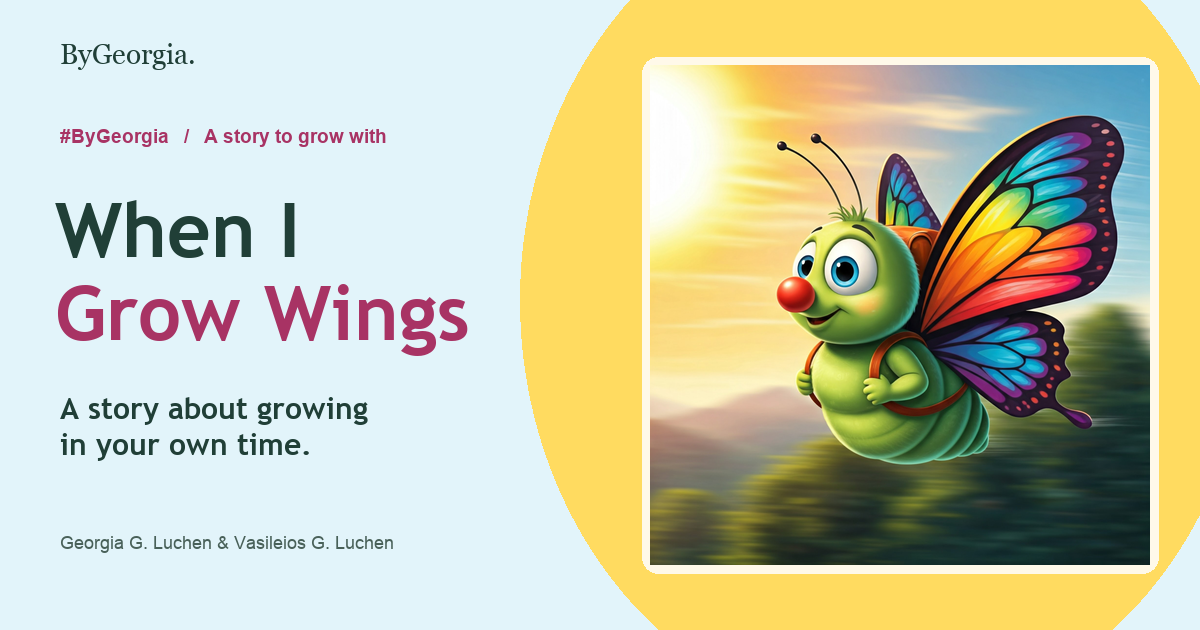
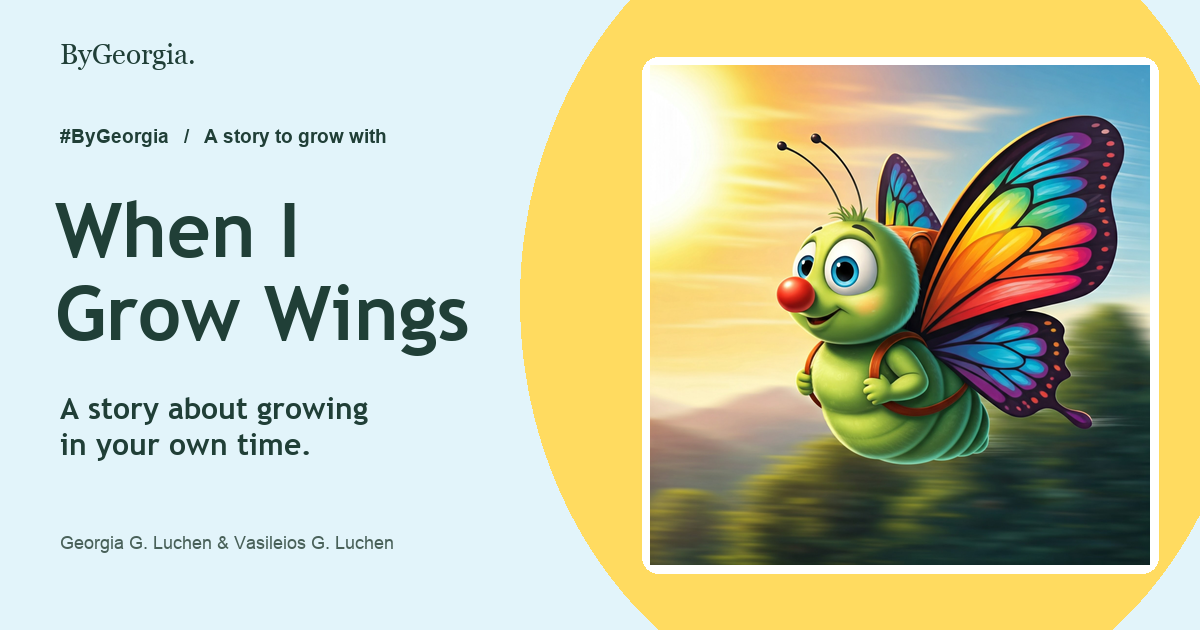
Keep the palette bright with sky blue and a unified green title

Changed region(s): [[0.0308, 0.4524, 0.4008, 0.573], [0.0308, 0.181, 0.3392, 0.2413]]

diff --git a/public/editorial.css b/public/editorial.css
@@ -1,12 +1,12 @@
 /* ByGeorgia: a bright, creative home. Family Play keeps its own existing styles. */
 :root {
-  --paper: #fff9e9;
+  --paper: #e2f4fa;
   --ink: #203f37;
   --muted: #496159;
   --blue: #dff3fa;
   --green: #dbeaaf;
   --sun: #ffd44d;
-  --pink: #ac3966;
+  --accent: #246c8a;
   --line: #ccd7bb;
   --heading: 'Avenir Next', 'Trebuchet MS', ui-rounded, system-ui, sans-serif;
 }
@@ -14,26 +14,26 @@
 html { scroll-behavior: smooth; scroll-padding-top: 24px; }
 body { margin: 0; background: var(--paper); color: var(--ink); font: 16px/1.75 'Avenir Next', system-ui, sans-serif; }
 a { color: inherit; text-decoration: none; }
-a:focus-visible { outline: 3px solid #ac3966; outline-offset: 5px; }
+a:focus-visible { outline: 3px solid var(--accent); outline-offset: 5px; }
 img { display: block; max-width: 100%; height: auto; }
 p,h1,h2,h3,figure { margin: 0; }
 p+p { margin-top: 20px; }
 h1,h2,h3 { font-family: var(--heading); font-weight: 800; line-height: 1.1; letter-spacing: -.045em; }
 h2 { font-size: clamp(34px,4vw,52px); }
-em { font-style: normal; color: var(--pink); }
+em { font-style: normal; color: inherit; }
 cite { font-style: italic; }
 .wrap { width: min(1180px,calc(100% - 96px)); margin-inline: auto; }
 .kicker { font-size: .76rem; font-weight: 800; letter-spacing: .1em; text-transform: uppercase; margin-bottom: 22px; }
 .editorial-nav { display: flex; align-items: center; justify-content: space-between; gap: 20px; padding-block: 24px; }
 .wordmark { font-family: Georgia,serif; font-size: 29px; font-weight: 400; letter-spacing: -1px; }
-.brand-dot { color: #ad3f29; }
+.brand-dot { color: var(--accent); }
 .editorial-nav nav { display: flex; align-items: center; flex-wrap: wrap; gap: 24px; font-size: .8rem; font-weight: 650; }
 .editorial-nav nav a { padding-block: 8px; }
-.movement { color: var(--pink); }
-.book-page { background: linear-gradient(180deg,#e2f4fa 0,#f2f9e8 660px,var(--paper) 1000px); }
+.movement { color: var(--accent); }
+.book-page { background: var(--paper); }
 .book-hero { display: grid; grid-template-columns: 1fr 1fr; align-items: center; gap: 64px; padding-block: 66px 92px; }
 .book-intro h1 { font-size: clamp(58px,6.6vw,91px); line-height: 1.01; letter-spacing: -.065em; }
-.book-intro h1 em { display: inline-block; position: relative; color: #a83364; }
+.book-intro h1 em { display: inline-block; position: relative; color: inherit; }
 .book-intro h1 em::after { content: ''; display: block; height: 8px; background: var(--sun); border-radius: 70%; transform: rotate(-4deg); margin-top: 5px; }
 .byline { font-size: .87rem; font-weight: 650; margin-top: 25px; }
 .positioning { font: 750 26px/1.35 var(--heading); margin-top: 27px; letter-spacing: -.02em; }
@@ -49,7 +49,7 @@ cite { font-style: italic; }
 .regional-purchases a { display: inline-block; padding-block: 8px; text-decoration: underline; text-underline-offset: 4px; }
 .regional-purchases span[aria-hidden] { margin-inline: 10px; }
 .artwork-presentation { position: relative; isolation: isolate; padding-top: 20px; }
-.artwork-presentation img { width: 100%; border: 7px solid #fffaf0; border-radius: 22px; box-shadow: 0 20px 45px -22px #284d4480; transform: rotate(2deg); }
+.artwork-presentation img { width: 100%; border: 7px solid #fff; border-radius: 22px; box-shadow: 0 20px 45px -22px #284d4480; transform: rotate(2deg); }
 .artwork-halo { position: absolute; inset: -18px 10px 35px; z-index: -1; background: #ffe08a; border-radius: 48% 52% 36% 64% / 40% 35% 65% 60%; transform: rotate(-7deg); }
 .artwork-presentation figcaption { margin-top: 29px; text-align: center; font-size: .85rem; font-weight: 650; color: var(--muted); }
 .story-section { display: grid; grid-template-columns: 1fr 2fr; gap: 65px; padding-block: 68px 95px; }
@@ -59,7 +59,7 @@ cite { font-style: italic; }
 .together-section { background: var(--green); border-radius: 70px 70px 0 0; padding-block: 78px; }
 .together-grid { display: grid; grid-template-columns: 1fr 1.2fr; gap: 80px; align-items: center; }
 .together-grid h2 { font-size: clamp(42px,5vw,64px); }
-.together-grid h2 em { color: #395e27; }
+.together-grid h2 em { color: inherit; }
 .together-copy { max-width: 550px; }
 .together-copy>p { font-size: 1.06rem; }
 .together-copy .dedication { font: 650 23px/1.55 var(--heading); margin-top: 30px; padding-top: 27px; border-top: 1px solid #9dae79; }
@@ -86,7 +86,7 @@ dd { margin: 0; }
 .authors-grid p { color: var(--muted); font-size: .96rem; }
 .closing { background: #ffdb60; text-align: center; padding-block: 78px 85px; border-radius: 50% 50% 0 0 / 35px 35px 0 0; }
 .closing h2 { font-size: clamp(40px,5vw,66px); }
-.closing em { color: #8e335c; }
+.closing em { color: inherit; }
 .closing>div>p:not(.kicker) { max-width: 500px; margin: 24px auto 0; }
 .closing .purchase-links { justify-content: center; }
 .editorial-footer { display: flex; justify-content: space-between; align-items: center; gap: 24px; padding-block: 30px; font-size: .77rem; }
@@ -96,7 +96,7 @@ dd { margin: 0; }
 .skip-link:focus { top: 12px; }
 /* The hub has the same creative voice, with room for more projects. */
 .hub-main { padding-block: 65px 90px; }
-.hub-main>.kicker { color: var(--pink); text-transform: none; letter-spacing: 0; font-size: 1rem; }
+.hub-main>.kicker { color: var(--accent); text-transform: none; letter-spacing: 0; font-size: 1rem; }
 .hub-main h1 { font-size: clamp(44px,6vw,76px); max-width: 900px; }
 .hub-main h1 em { background: linear-gradient(transparent 78%,#ffd44d 78%); }
 .hub-lead { color: var(--muted); margin-top: 25px; font-size: 1.08rem; }

diff --git a/scripts/prepare-book-images.py b/scripts/prepare-book-images.py
@@ -16,13 +16,13 @@ def font(name, size):
     return ImageFont.truetype(str(font_dir / name), size)
 draw.ellipse((520, -120, 1250, 720), fill='#ffdb60')
 draw.text((60, 38), 'ByGeorgia.', font=font('Georgia.ttf', 28), fill='#203f37')
-draw.text((60, 125), '#ByGeorgia   /   A story to grow with', font=font('Arial Bold.ttf', 19), fill='#a83364')
+draw.text((60, 125), '#ByGeorgia   /   A story to grow with', font=font('Arial Bold.ttf', 19), fill='#203f37')
 draw.text((55, 185), 'When I', font=font('Trebuchet MS Bold.ttf', 76), fill='#203f37')
-draw.text((55, 268), 'Grow Wings', font=font('Trebuchet MS Bold.ttf', 76), fill='#a83364')
+draw.text((55, 268), 'Grow Wings', font=font('Trebuchet MS Bold.ttf', 76), fill='#203f37')
 draw.text((60, 390), 'A story about growing\nin your own time.', font=font('Trebuchet MS Bold.ttf', 30), fill='#203f37', spacing=7)
 draw.text((60, 532), 'Georgia G. Luchen & Vasileios G. Luchen', font=font('Arial.ttf', 18), fill='#496159')
 art = artwork.copy()
 art.thumbnail((500, 500), Image.Resampling.LANCZOS)
-draw.rounded_rectangle((642, 57, 1158, 573), radius=16, fill='#fff9e9')
+draw.rounded_rectangle((642, 57, 1158, 573), radius=16, fill='#ffffff')
 canvas.paste(art, (650, 65))
 canvas.save(out / 'when-i-grow-wings-og.png', optimize=True)
